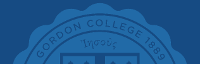
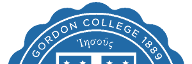
Clean up files

diff --git a/src/components/Header/header.scss b/src/components/Header/header.scss
@@ -11,6 +11,7 @@ $drawer-width: 240px;
   .app-bar {
     position: absolute;
     background-repeat: no-repeat;
+    background-position-x: 128px;
   }
 
   .tab {
@@ -25,7 +26,7 @@ $drawer-width: 240px;
 
   @media (min-width: 0px) {
     .app-bar {
-      background-image: url('./gc_seal_top_trans_56.png');
+      background-image: url('./gc_seal_top_56.png');
     }
 
     .center-container {
@@ -35,7 +36,7 @@ $drawer-width: 240px;
 
   @media (min-width: $break-sm) {
     .app-bar {
-      background-image: url('./gc_seal_top_trans_64.png');
+      background-image: url('./gc_seal_top_64.png');
     }
   }
 
@@ -44,7 +45,7 @@ $drawer-width: 240px;
       display: none;
     }
     .app-bar {
-      background-image: url('./gc_seal_top_trans_72.png');
+      background-image: url('./gc_seal_top_72.png');
     }
 
     .center-container {
@@ -69,7 +70,6 @@ $drawer-width: 240px;
   .title {
     flex: 1;
     margin-right: 10px;
-    margin-left: 34px;
     font-weight: bold;
   }
 

diff --git a/src/components/Header/index.js b/src/components/Header/index.js
@@ -58,7 +58,6 @@ export default class GordonHeader extends Component {
             >
               <MenuIcon />
             </IconButton>
-            <img src={require('./GordonSeal.png')} alt="Gordon College" />
             <Typography className="title" type="title" color="inherit">
               <Switch>
                 {routes.map(route => (
